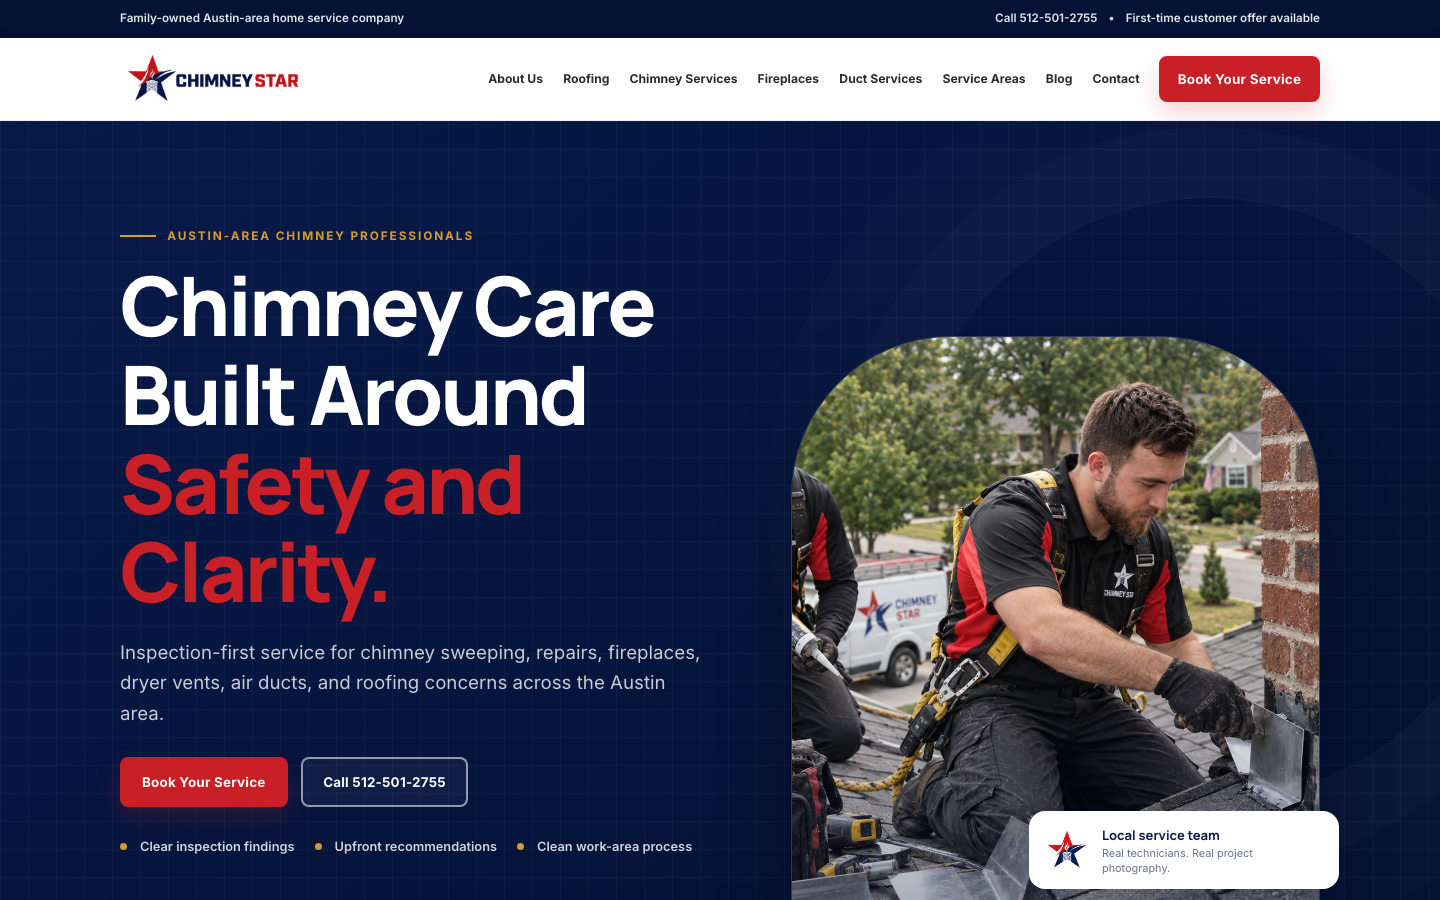
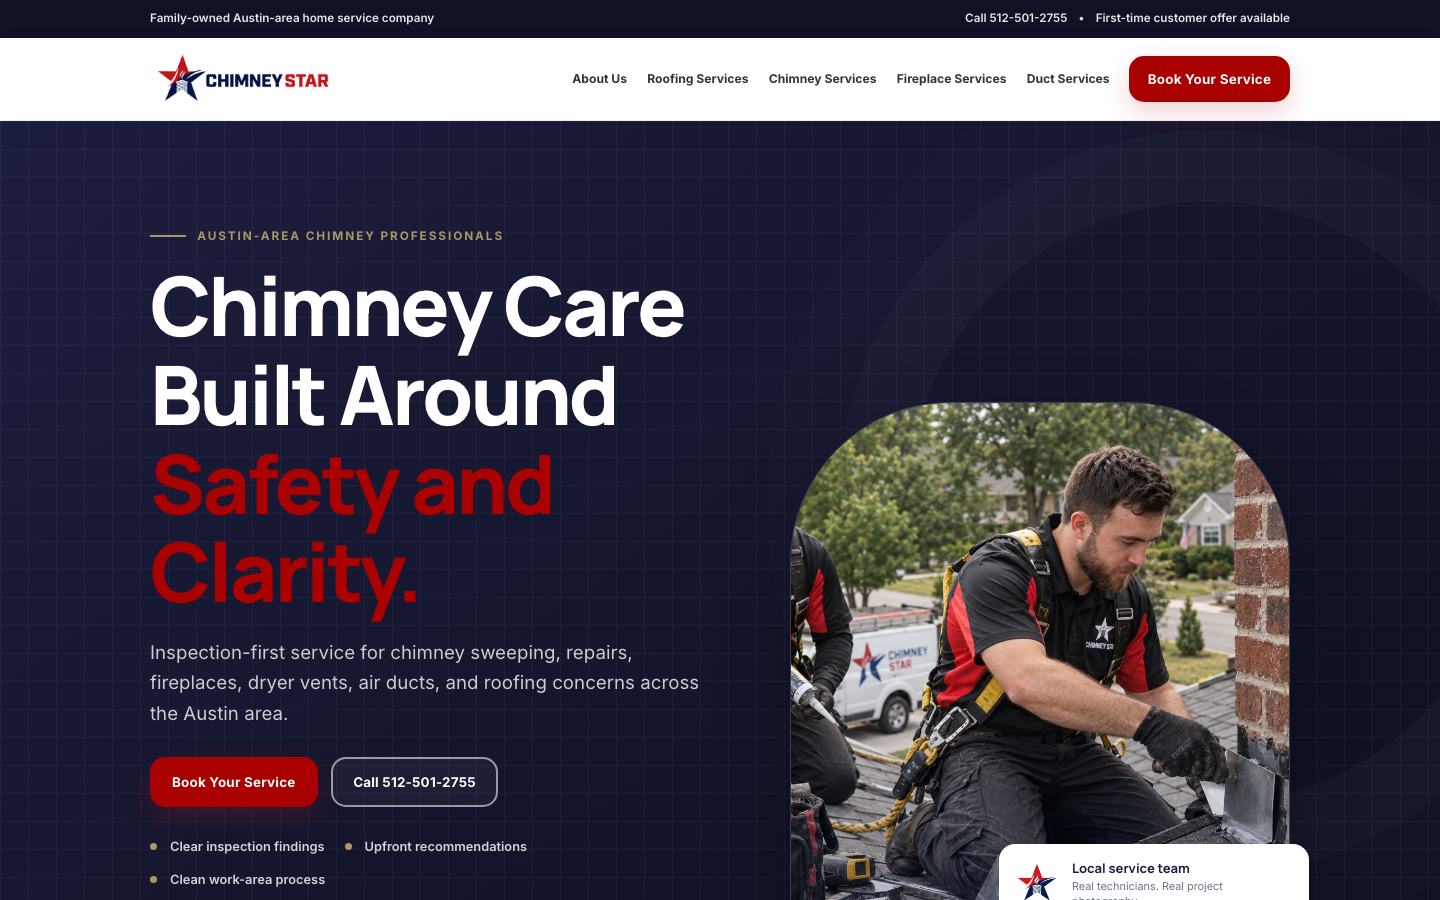
Align mock with live Elementor design system

diff --git a/index.html b/index.html
@@ -18,7 +18,7 @@
   <a class="cs-skip-link" href="#main-content">Skip to main content</a>
 
   <!-- ELEMENTOR: Theme Builder header. Utility Container + primary navigation Container. -->
-  <header class="cs-header" data-cs-header>
+  <header class="cs-header" data-cs-header data-elementor-area="header">
     <div class="cs-utility-bar">
       <div class="cs-container cs-utility-bar__inner">
         <p>Family-owned Austin-area home service company</p>
@@ -44,7 +44,7 @@
         <nav class="cs-navigation" id="cs-navigation" aria-label="Primary navigation" data-cs-navigation>
           <ul class="cs-navigation__list">
             <li><a href="https://chimney-star.com/about-us/">About Us</a></li>
-            <li><a href="https://chimney-star.com/roofing-services/">Roofing</a></li>
+            <li><a href="https://chimney-star.com/roofing-services/">Roofing Services</a></li>
             <li class="cs-navigation__group">
               <a href="https://chimney-star.com/chimney-services/">Chimney Services</a>
               <div class="cs-navigation__dropdown">
@@ -54,11 +54,8 @@
                 <a href="https://chimney-star.com/chimney-services/chimney-leak-repair/">Leak Repair</a>
               </div>
             </li>
-            <li><a href="https://chimney-star.com/chimney-services/gas-fireplace-repair-service/">Fireplaces</a></li>
+            <li><a href="https://chimney-star.com/chimney-services/gas-fireplace-repair-service/">Fireplace Services</a></li>
             <li><a href="https://chimney-star.com/air-duct-cleaning-in-austin-tx/">Duct Services</a></li>
-            <li><a href="#service-areas">Service Areas</a></li>
-            <li><a href="https://chimney-star.com/blog/">Blog</a></li>
-            <li><a href="https://chimney-star.com/contact/">Contact</a></li>
           </ul>
           <a class="cs-button cs-button--primary cs-navigation__cta" href="https://chimney-star.com/book-online/">Book Your Service</a>
         </nav>
@@ -66,7 +63,7 @@
     </div>
   </header>
 
-  <main id="main-content">
+  <main id="main-content" class="cs-elementor-content" data-elementor-area="content">
     <!-- ELEMENTOR BUILD:
       Parent: .cs-hero.cs-section--blueprint
       Inner: .cs-container.cs-hero__grid
@@ -407,7 +404,7 @@
     </section>
 
     <!-- ELEMENTOR: Global pre-footer CTA template part. -->
-    <section class="cs-cta" aria-labelledby="cta-title">
+    <section class="cs-cta" aria-labelledby="cta-title" data-elementor-area="pre-footer-cta">
       <div class="cs-container cs-cta__inner">
         <div><span>Ready for a clearer next step?</span><h2 id="cta-title">Need Help With Your Chimney?</h2></div>
         <div class="cs-cta__actions">
@@ -419,7 +416,7 @@
   </main>
 
   <!-- ELEMENTOR: Theme Builder footer. Four-column desktop, two-column tablet, stacked mobile. -->
-  <footer class="cs-footer">
+  <footer class="cs-footer" data-elementor-area="footer">
     <div class="cs-footer__roof" aria-hidden="true"></div>
     <div class="cs-container cs-footer__grid">
       <div class="cs-footer__brand">

diff --git a/assets/css/global.css b/assets/css/global.css
@@ -1,16 +1,17 @@
 :root {
-  --cs-navy: #081a4a;
-  --cs-navy-deep: #041235;
-  --cs-navy-soft: #102a68;
-  --cs-red: #c91f26;
-  --cs-red-dark: #a9151b;
-  --cs-warm-white: #f6f3ee;
-  --cs-charcoal: #252a34;
-  --cs-gold: #d69c2f;
+  /* Matched to the active Elementor site's computed brand palette. */
+  --cs-navy: #1c1e3d;
+  --cs-navy-deep: #101124;
+  --cs-navy-soft: #2a2d58;
+  --cs-red: #a90100;
+  --cs-red-dark: #850100;
+  --cs-warm-white: #f8f3ef;
+  --cs-charcoal: #333333;
+  --cs-gold: #a99767;
   --cs-white: #fff;
   --cs-muted: #687286;
   --cs-line: #dce1e8;
-  --cs-container: 1200px;
+  --cs-container: 1140px;
   --cs-radius-sm: 8px;
   --cs-radius-md: 16px;
   --cs-radius-lg: 24px;
@@ -37,7 +38,7 @@ html {
 body {
   margin: 0;
   color: var(--cs-charcoal);
-  background: var(--cs-white);
+  background: #fbfbfb;
   font-family: "Inter", Arial, sans-serif;
   font-size: 1rem;
   line-height: 1.65;
@@ -155,7 +156,7 @@ textarea {
   gap: 0.55rem;
   padding: 0.78rem 1.25rem;
   border: 2px solid transparent;
-  border-radius: var(--cs-radius-sm);
+  border-radius: 15px;
   font-family: "Inter", Arial, sans-serif;
   font-size: 0.84rem;
   font-weight: 700;

diff --git a/assets/css/responsive.css b/assets/css/responsive.css
@@ -1,37 +1,4 @@
-@media (max-width: 1199px) {
-  .cs-header__inner {
-    gap: 1.2rem;
-  }
-
-  .cs-brand,
-  .cs-brand img {
-    width: 165px;
-    flex-basis: 165px;
-  }
-
-  .cs-navigation__list {
-    gap: 0.85rem;
-  }
-
-  .cs-navigation__list > li > a {
-    font-size: 0.7rem;
-  }
-
-  .cs-navigation__list > li:nth-last-child(2),
-  .cs-navigation__list > li:nth-last-child(3) {
-    display: none;
-  }
-
-  .cs-service-grid {
-    grid-template-columns: repeat(3, minmax(0, 1fr));
-  }
-
-  .cs-service-card--action {
-    grid-column: span 2;
-  }
-}
-
-@media (max-width: 1023px) {
+@media (max-width: 1024px) {
   :root {
     --cs-space-2xl: 4.5rem;
   }
@@ -121,9 +88,7 @@
     gap: 0;
   }
 
-  .cs-navigation__list > li,
-  .cs-navigation__list > li:nth-last-child(2),
-  .cs-navigation__list > li:nth-last-child(3) {
+  .cs-navigation__list > li {
     display: block;
     border-bottom: 1px solid var(--cs-line);
   }

diff --git a/assets/js/main.js b/assets/js/main.js
@@ -23,7 +23,7 @@
   };
 
   const syncNavigation = () => {
-    if (window.matchMedia('(max-width: 1023px)').matches) {
+    if (window.matchMedia('(max-width: 1024px)').matches) {
       closeMenu();
     } else {
       toggle.setAttribute('aria-expanded', 'false');
@@ -39,7 +39,7 @@
   });
 
   navigation.addEventListener('click', (event) => {
-    if (event.target.closest('a') && window.matchMedia('(max-width: 1023px)').matches) {
+    if (event.target.closest('a') && window.matchMedia('(max-width: 1024px)').matches) {
       closeMenu();
     }
   });

diff --git a/docs/ELEMENTOR-HANDOFF.md b/docs/ELEMENTOR-HANDOFF.md
@@ -4,12 +4,16 @@ This local homepage is a static design-review source. It is not yet an Elementor
 
 ## Global system
 
+- Compatibility baseline verified from the live site: Hello Elementor child theme, Elementor and Elementor Pro, a 1140px content container, tablet through 1024px, and mobile through 767px.
+- Match the live Elementor palette: primary red `#A90100`, dark navy `#1C1E3D`, warm white `#F8F3EF`, muted gold `#A99767`, body text `#333333`, and page background `#FBFBFB`.
 - Set the global colors from `assets/css/global.css` in Elementor Site Settings.
 - Use Manrope for headings and Inter for body/UI text.
 - Use Theme Builder templates for the header, footer, and pre-footer CTA.
 - Assign the existing `.cs-*` classes through each Container or widget's Advanced settings.
 - Keep one global CSS layer. Do not paste the full stylesheet into individual HTML widgets.
 - Use native Elementor widgets for headings, text, images, buttons, icon lists, accordions, and navigation.
+- Keep the four Theme Builder areas identified in the mock: `header`, `content`, `pre-footer-cta`, and `footer`.
+- Keep the primary desktop navigation aligned to the live Elementor header areas: About Us, Roofing Services, Chimney Services, Fireplace Services, and Duct Services, followed by the booking CTA. Secondary destinations remain in the footer or relevant page sections.
 
 ## Section map
 

diff --git a/README.md b/README.md
@@ -10,6 +10,7 @@ The mock uses:
 
 - approved local Chimney Star logos, trust marks, icons, team photography, and project images;
 - separate global, component, and responsive stylesheets;
+- the active live Elementor palette, 1140px content area, and 1024px/767px breakpoints;
 - minimal JavaScript for the accessible mobile navigation;
 - verified existing service and location URLs;
 - concise Elementor build comments plus a separate handoff map;
